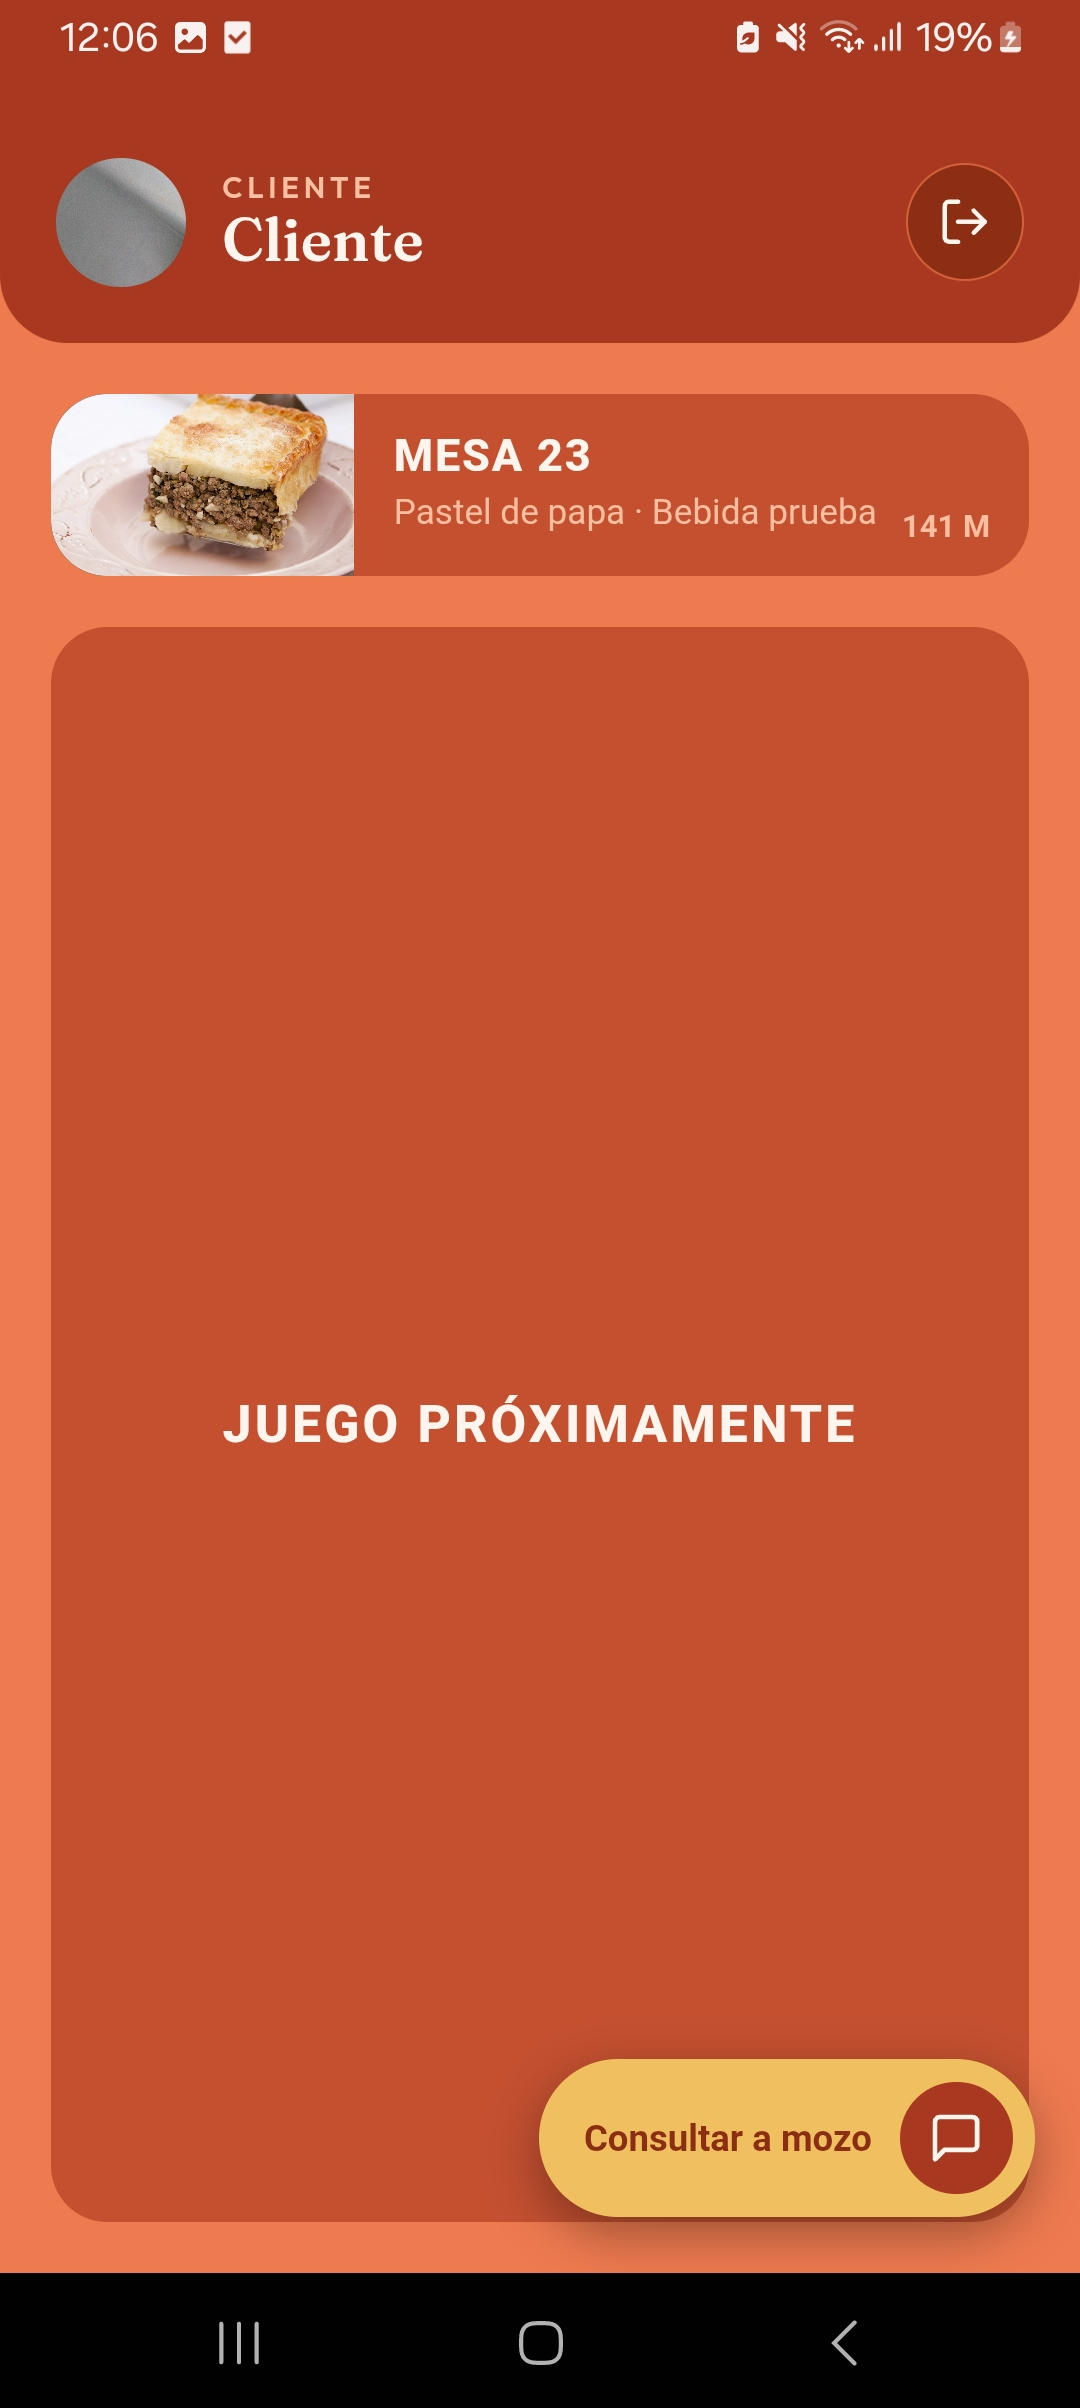
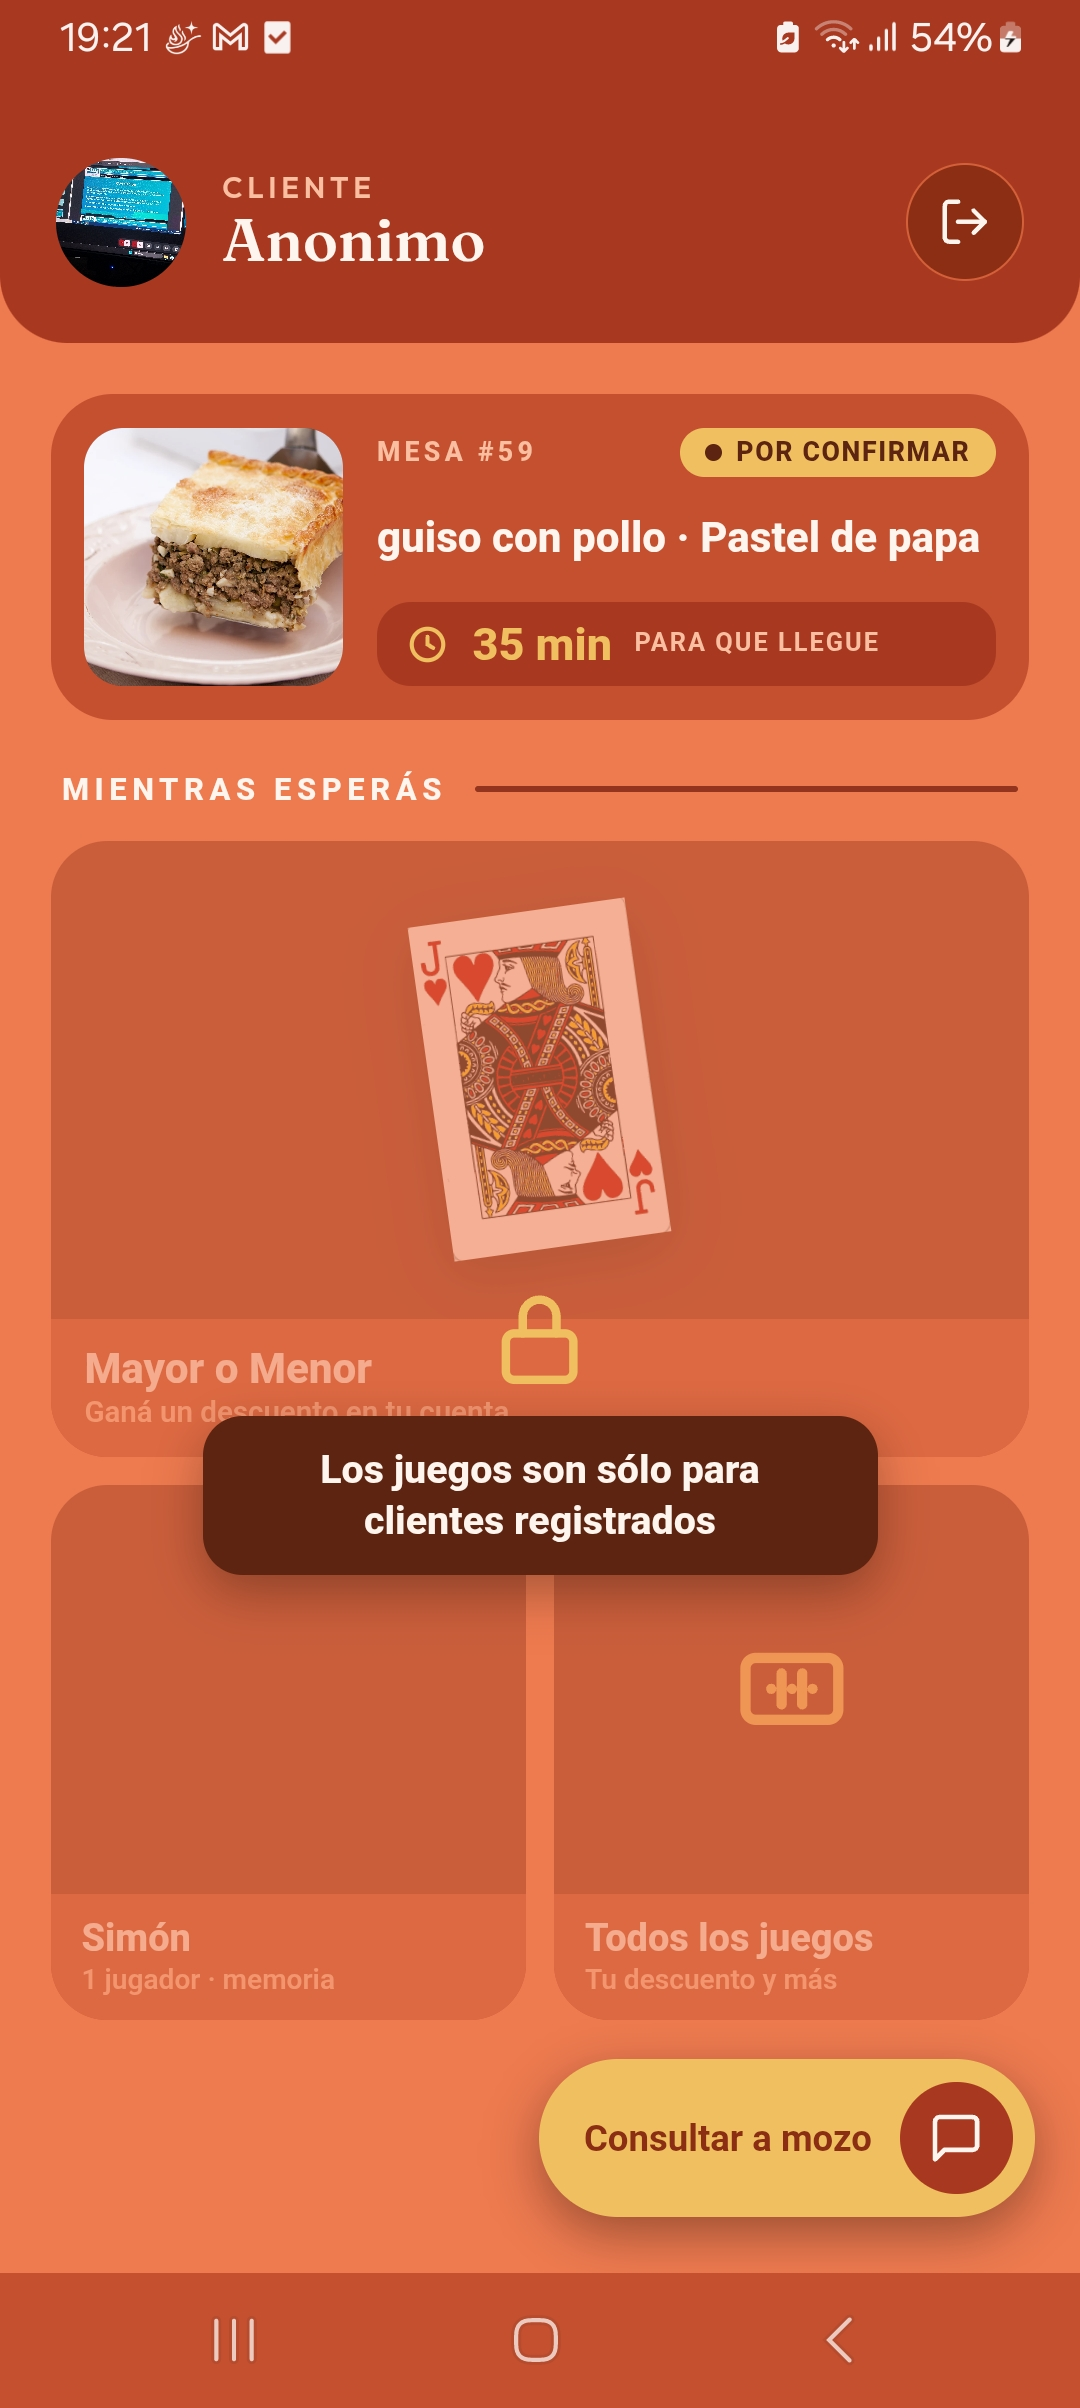
readme caps

diff --git a/README.md b/README.md
@@ -177,8 +177,8 @@ Cada tipo de correo tiene **paleta de colores, tipografías y tamaños propios**
 
 <details>
 <summary>MAILS</summary>
-    <img src="https://cdn.discordapp.com/attachments/1540693681814769744/1550320789264535614/image.png?ex=6aade83f&is=6aac96bf&hm=f55c79db69f36580dc47e30dad6877286ffc05bbdcc9866c103a0a09f406eb3b&" alt="icono" width="1000"><br>
-    <img src="https://cdn.discordapp.com/attachments/1540693681814769744/1550320866024235068/image.png?ex=6aade852&is=6aac96d2&hm=3ae3309f3bde33baf910174b4277f4f1d6118d6ead78f2dd968bb3118395cb46&" alt="splash" width="1000">
+    <img src="src/assets/capturas/mail.jpg" alt="cliente-consulta" alt="icono" width="1000"><br>
+    <img src="src/assets/capturas/mail2.jpg" alt="cliente-consulta" alt="splash" width="1000">
 </details>
 
 ## Notificaciones
